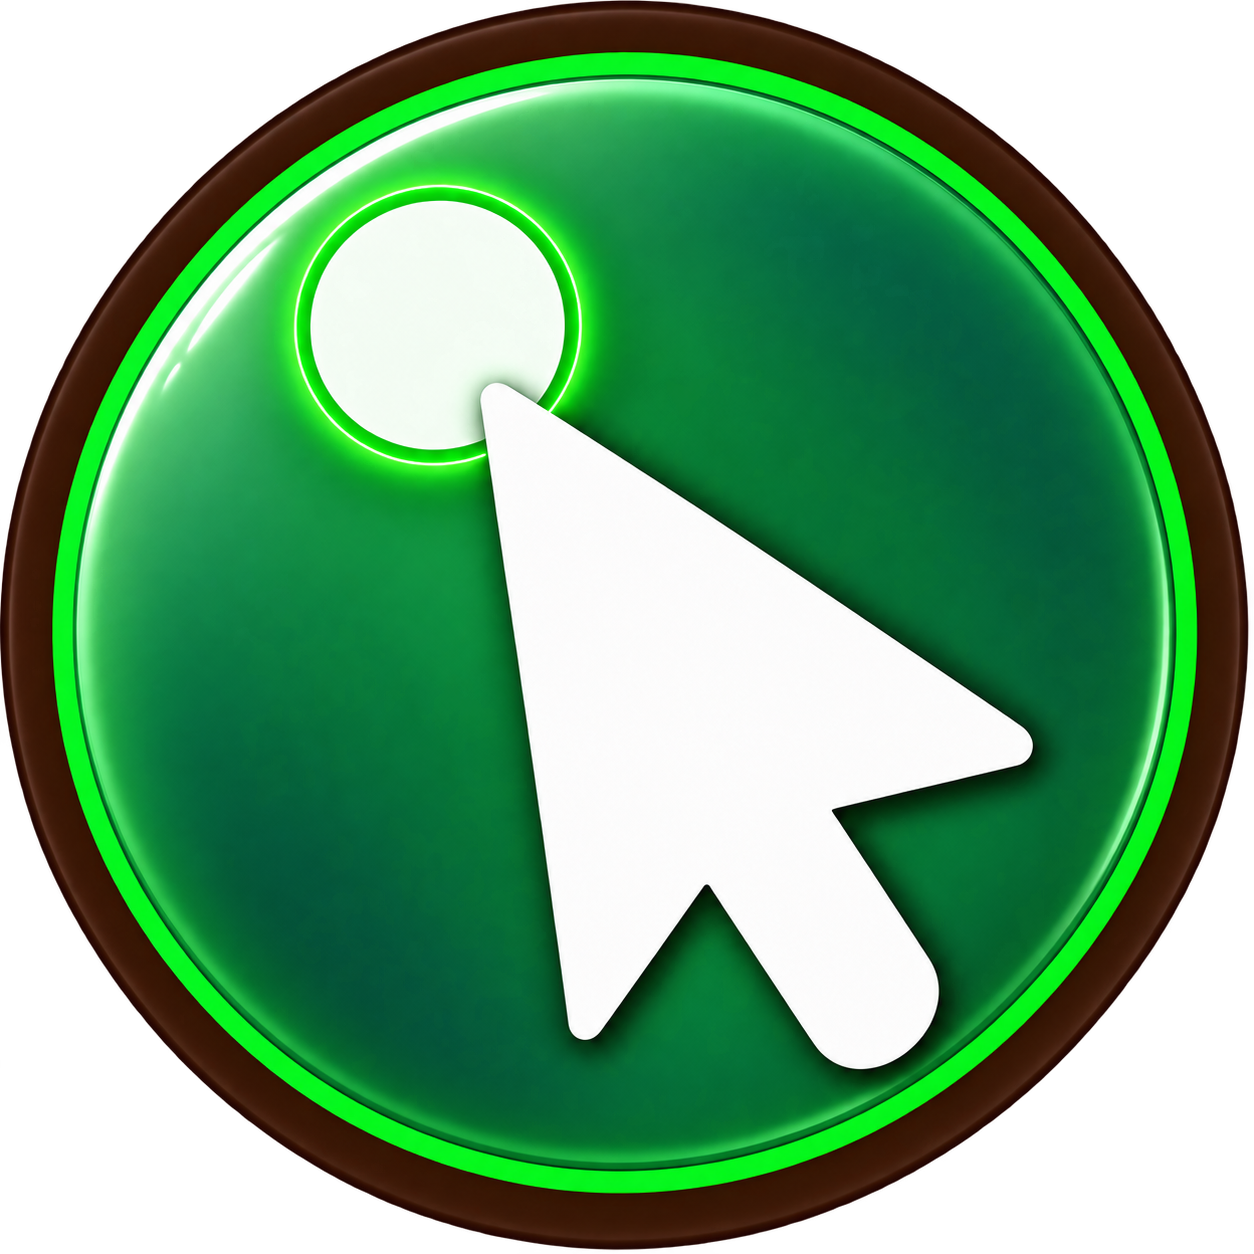
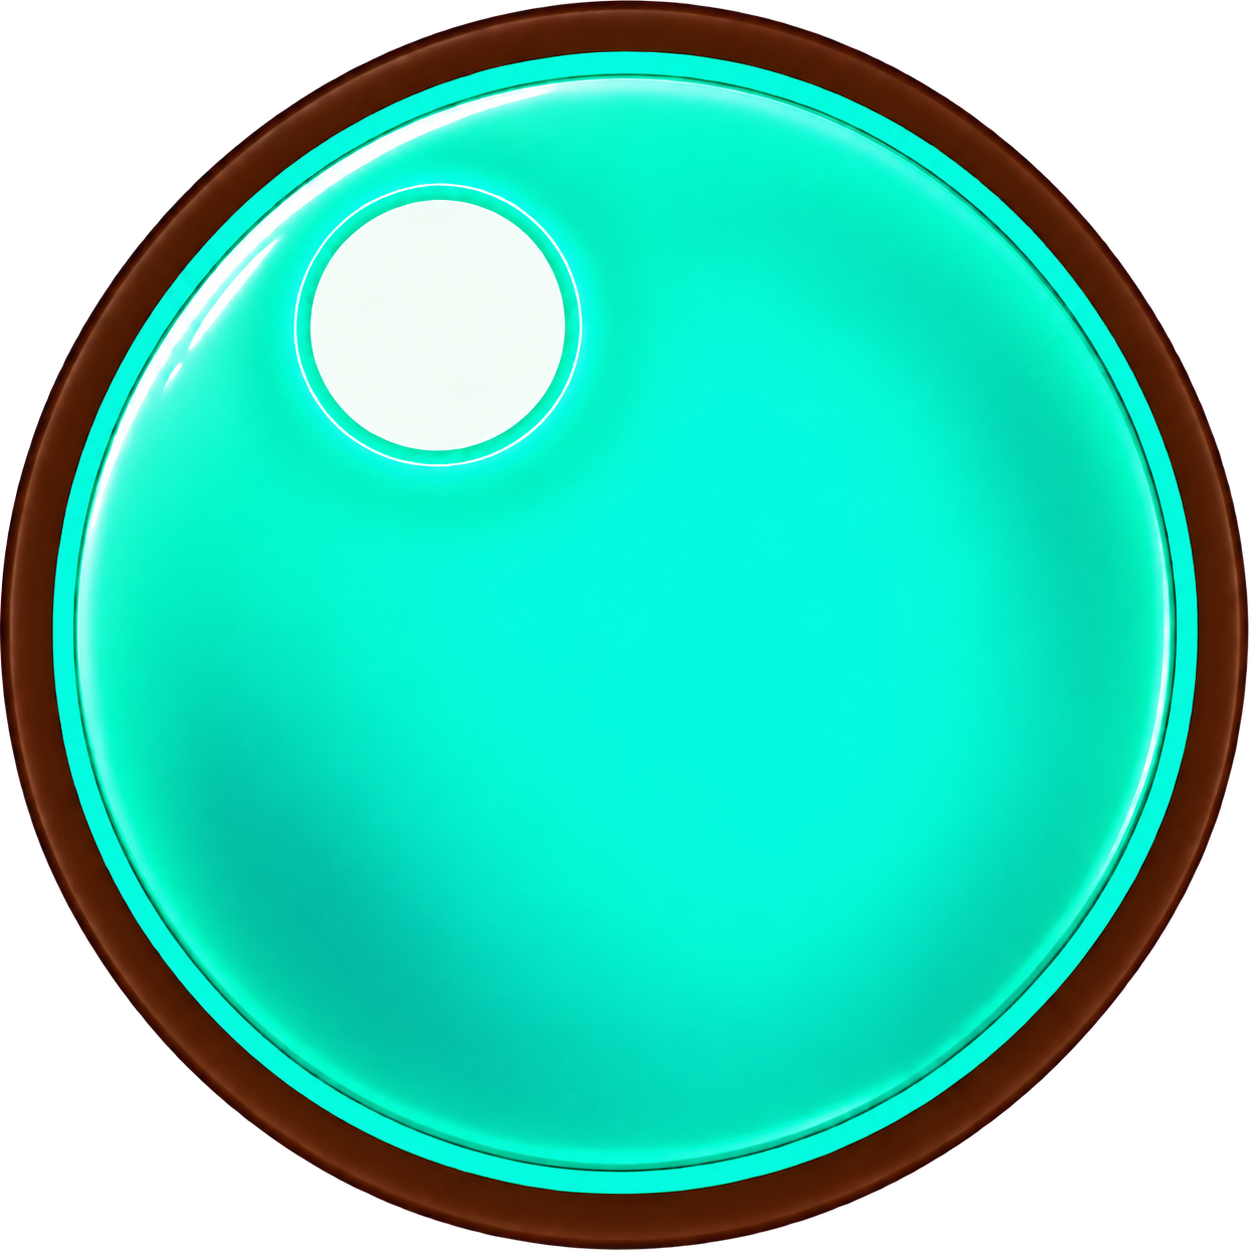
点選択の画像を青緑へ変更し矢印を削除

diff --git a/zumen_sekisan.html b/zumen_sekisan.html
@@ -5648,7 +5648,7 @@ if(NN_PHONE)(function(){
    ボタンのid（tl_◯◯）と同じ名前にしてあるので、増やすときは対応表に1行足すだけ。 */
 window.NN_TB_ICONS=[
   ['tl_undo','btn_undo'],   ['tl_redo','btn_redo'],   ['tl_del','btn_del'],
-  ['tl_draw','btn_draw'],   ['tl_sel','btn_sel_edge','2026-09-13j'], ['tl_sel_point','btn_sel_point','2026-09-13j'],
+  ['tl_draw','btn_draw'],   ['tl_sel','btn_sel_edge','2026-09-13j'], ['tl_sel_point','btn_sel_point','2026-09-15c'],
   ['tl_sel_face','btn_sel_face','2026-09-13j'], ['tl_hole','btn_hole'],
   ['tl_split','btn_split'], ['tl_rect','btn_rect','2026-09-13d'], ['tl_pan','btn_pan','2026-08-16c'],
   /* ★同じ名前で中身を差し替えた絵は3つ目に版名（URLに付けて古い絵を捨てさせる・§66） */
@@ -6232,7 +6232,7 @@ nav, nav#nav{justify-content:center !important; padding-left:6px !important; pad
    古いものが出続けることがある。そこで ver.txt（数バイト）だけを
    毎回見に行き、公開版と違っていたら保存分を捨てて1回だけ読み直す。
    ★公開のたびに ver.txt と、下の NN_VER を同じ文字に更新すること。 */
-const NN_VER='2026-09-15b';
+const NN_VER='2026-09-15c';
 /* ============ 表示にかかった時間の記録（原因調査用・2026-07-28） ============
    スマホの実機でどこに時間がかかっているかを数字で出す。
    ・net  ＝ページを要求してから最初の返事が来るまで（通信の待ち）

diff --git a/index.html b/index.html
@@ -393,7 +393,7 @@ nav, nav#nav{overflow:visible; padding-top:2px;}
 
 <!-- 版の表示：スマホに届いている中身がどれかを、お互いに確認するための小さな印。
      不要になったらこの1行と #nnver の指定を消してください。 -->
-<div id="nnver">v2026-09-15 b</div>
+<div id="nnver">v2026-09-15 c</div>
 <script>
 /* ============ 実機の計測結果を表示（原因調査用・2026-07-28） ============
    数字の意味（単位はミリ秒）
@@ -744,7 +744,7 @@ nav, nav#nav{justify-content:center !important; padding-left:6px !important; pad
    古いものが出続けることがある。そこで ver.txt（数バイト）だけを
    毎回見に行き、公開版と違っていたら保存分を捨てて1回だけ読み直す。
    ★公開のたびに ver.txt と、下の NN_VER を同じ文字に更新すること。 */
-const NN_VER='2026-09-15b';
+const NN_VER='2026-09-15c';
 /* ============ 表示にかかった時間の記録（原因調査用・2026-07-28） ============
    スマホの実機でどこに時間がかかっているかを数字で出す。
    ・net  ＝ページを要求してから最初の返事が来るまで（通信の待ち）

diff --git a/camera.html b/camera.html
@@ -1271,7 +1271,7 @@ nav, nav#nav{justify-content:center !important; padding-left:6px !important; pad
    古いものが出続けることがある。そこで ver.txt（数バイト）だけを
    毎回見に行き、公開版と違っていたら保存分を捨てて1回だけ読み直す。
    ★公開のたびに ver.txt と、下の NN_VER を同じ文字に更新すること。 */
-const NN_VER='2026-09-15b';
+const NN_VER='2026-09-15c';
 /* ============ 表示にかかった時間の記録（原因調査用・2026-07-28） ============
    スマホの実機でどこに時間がかかっているかを数字で出す。
    ・net  ＝ページを要求してから最初の返事が来るまで（通信の待ち）

diff --git a/genba_map_v36.html b/genba_map_v36.html
@@ -4956,7 +4956,7 @@ nav, nav#nav{justify-content:center !important; padding-left:6px !important; pad
    古いものが出続けることがある。そこで ver.txt（数バイト）だけを
    毎回見に行き、公開版と違っていたら保存分を捨てて1回だけ読み直す。
    ★公開のたびに ver.txt と、下の NN_VER を同じ文字に更新すること。 */
-const NN_VER='2026-09-15b';
+const NN_VER='2026-09-15c';
 /* ============ 表示にかかった時間の記録（原因調査用・2026-07-28） ============
    スマホの実機でどこに時間がかかっているかを数字で出す。
    ・net  ＝ページを要求してから最初の返事が来るまで（通信の待ち）

diff --git a/hacchu.html b/hacchu.html
@@ -1065,7 +1065,7 @@ nav, nav#nav{justify-content:center !important; padding-left:6px !important; pad
    古いものが出続けることがある。そこで ver.txt（数バイト）だけを
    毎回見に行き、公開版と違っていたら保存分を捨てて1回だけ読み直す。
    ★公開のたびに ver.txt と、下の NN_VER を同じ文字に更新すること。 */
-const NN_VER='2026-09-15b';
+const NN_VER='2026-09-15c';
 /* ============ 表示にかかった時間の記録（原因調査用・2026-07-28） ============
    スマホの実機でどこに時間がかかっているかを数字で出す。
    ・net  ＝ページを要求してから最初の返事が来るまで（通信の待ち）

diff --git a/kirokucho_demo.html b/kirokucho_demo.html
@@ -4684,7 +4684,7 @@ nav, nav#nav{justify-content:center !important; padding-left:6px !important; pad
    古いものが出続けることがある。そこで ver.txt（数バイト）だけを
    毎回見に行き、公開版と違っていたら保存分を捨てて1回だけ読み直す。
    ★公開のたびに ver.txt と、下の NN_VER を同じ文字に更新すること。 */
-const NN_VER='2026-09-15b';
+const NN_VER='2026-09-15c';
 /* ============ 表示にかかった時間の記録（原因調査用・2026-07-28） ============
    スマホの実機でどこに時間がかかっているかを数字で出す。
    ・net  ＝ページを要求してから最初の返事が来るまで（通信の待ち）

diff --git a/kokkosho.html b/kokkosho.html
@@ -2377,7 +2377,7 @@ nav, nav#nav{justify-content:center !important; padding-left:6px !important; pad
    古いものが出続けることがある。そこで ver.txt（数バイト）だけを
    毎回見に行き、公開版と違っていたら保存分を捨てて1回だけ読み直す。
    ★公開のたびに ver.txt と、下の NN_VER を同じ文字に更新すること。 */
-const NN_VER='2026-09-15b';
+const NN_VER='2026-09-15c';
 /* ============ 表示にかかった時間の記録（原因調査用・2026-07-28） ============
    スマホの実機でどこに時間がかかっているかを数字で出す。
    ・net  ＝ページを要求してから最初の返事が来るまで（通信の待ち）

diff --git a/library.html b/library.html
@@ -1161,7 +1161,7 @@ nav, nav#nav{justify-content:center !important; padding-left:6px !important; pad
    古いものが出続けることがある。そこで ver.txt（数バイト）だけを
    毎回見に行き、公開版と違っていたら保存分を捨てて1回だけ読み直す。
    ★公開のたびに ver.txt と、下の NN_VER を同じ文字に更新すること。 */
-const NN_VER='2026-09-15b';
+const NN_VER='2026-09-15c';
 /* ============ 表示にかかった時間の記録（原因調査用・2026-07-28） ============
    スマホの実機でどこに時間がかかっているかを数字で出す。
    ・net  ＝ページを要求してから最初の返事が来るまで（通信の待ち）

diff --git a/shiyo_toroku.html b/shiyo_toroku.html
@@ -1645,7 +1645,7 @@ nav, nav#nav{justify-content:center !important; padding-left:6px !important; pad
    古いものが出続けることがある。そこで ver.txt（数バイト）だけを
    毎回見に行き、公開版と違っていたら保存分を捨てて1回だけ読み直す。
    ★公開のたびに ver.txt と、下の NN_VER を同じ文字に更新すること。 */
-const NN_VER='2026-09-15b';
+const NN_VER='2026-09-15c';
 /* ============ 表示にかかった時間の記録（原因調査用・2026-07-28） ============
    スマホの実機でどこに時間がかかっているかを数字で出す。
    ・net  ＝ページを要求してから最初の返事が来るまで（通信の待ち）

diff --git a/yougo.html b/yougo.html
@@ -1391,7 +1391,7 @@ nav, nav#nav{justify-content:center !important; padding-left:6px !important; pad
    古いものが出続けることがある。そこで ver.txt（数バイト）だけを
    毎回見に行き、公開版と違っていたら保存分を捨てて1回だけ読み直す。
    ★公開のたびに ver.txt と、下の NN_VER を同じ文字に更新すること。 */
-const NN_VER='2026-09-15b';
+const NN_VER='2026-09-15c';
 /* ============ 表示にかかった時間の記録（原因調査用・2026-07-28） ============
    スマホの実機でどこに時間がかかっているかを数字で出す。
    ・net  ＝ページを要求してから最初の返事が来るまで（通信の待ち）

diff --git a/zairyo_toroku.html b/zairyo_toroku.html
@@ -1525,7 +1525,7 @@ nav, nav#nav{justify-content:center !important; padding-left:6px !important; pad
    古いものが出続けることがある。そこで ver.txt（数バイト）だけを
    毎回見に行き、公開版と違っていたら保存分を捨てて1回だけ読み直す。
    ★公開のたびに ver.txt と、下の NN_VER を同じ文字に更新すること。 */
-const NN_VER='2026-09-15b';
+const NN_VER='2026-09-15c';
 /* ============ 表示にかかった時間の記録（原因調査用・2026-07-28） ============
    スマホの実機でどこに時間がかかっているかを数字で出す。
    ・net  ＝ページを要求してから最初の返事が来るまで（通信の待ち）

diff --git a/sw.js b/sw.js
@@ -11,7 +11,7 @@
      ので、こちらの修正が確実に端末へ届く。
      ★ページを直したら、必ずこの番号を1つ上げること。
    ============================================================ */
-const CACHE = 'nn-cache-v492';
+const CACHE = 'nn-cache-v493';
 
 const ASSETS = [
   './icons/btn_sel_edge.png',
